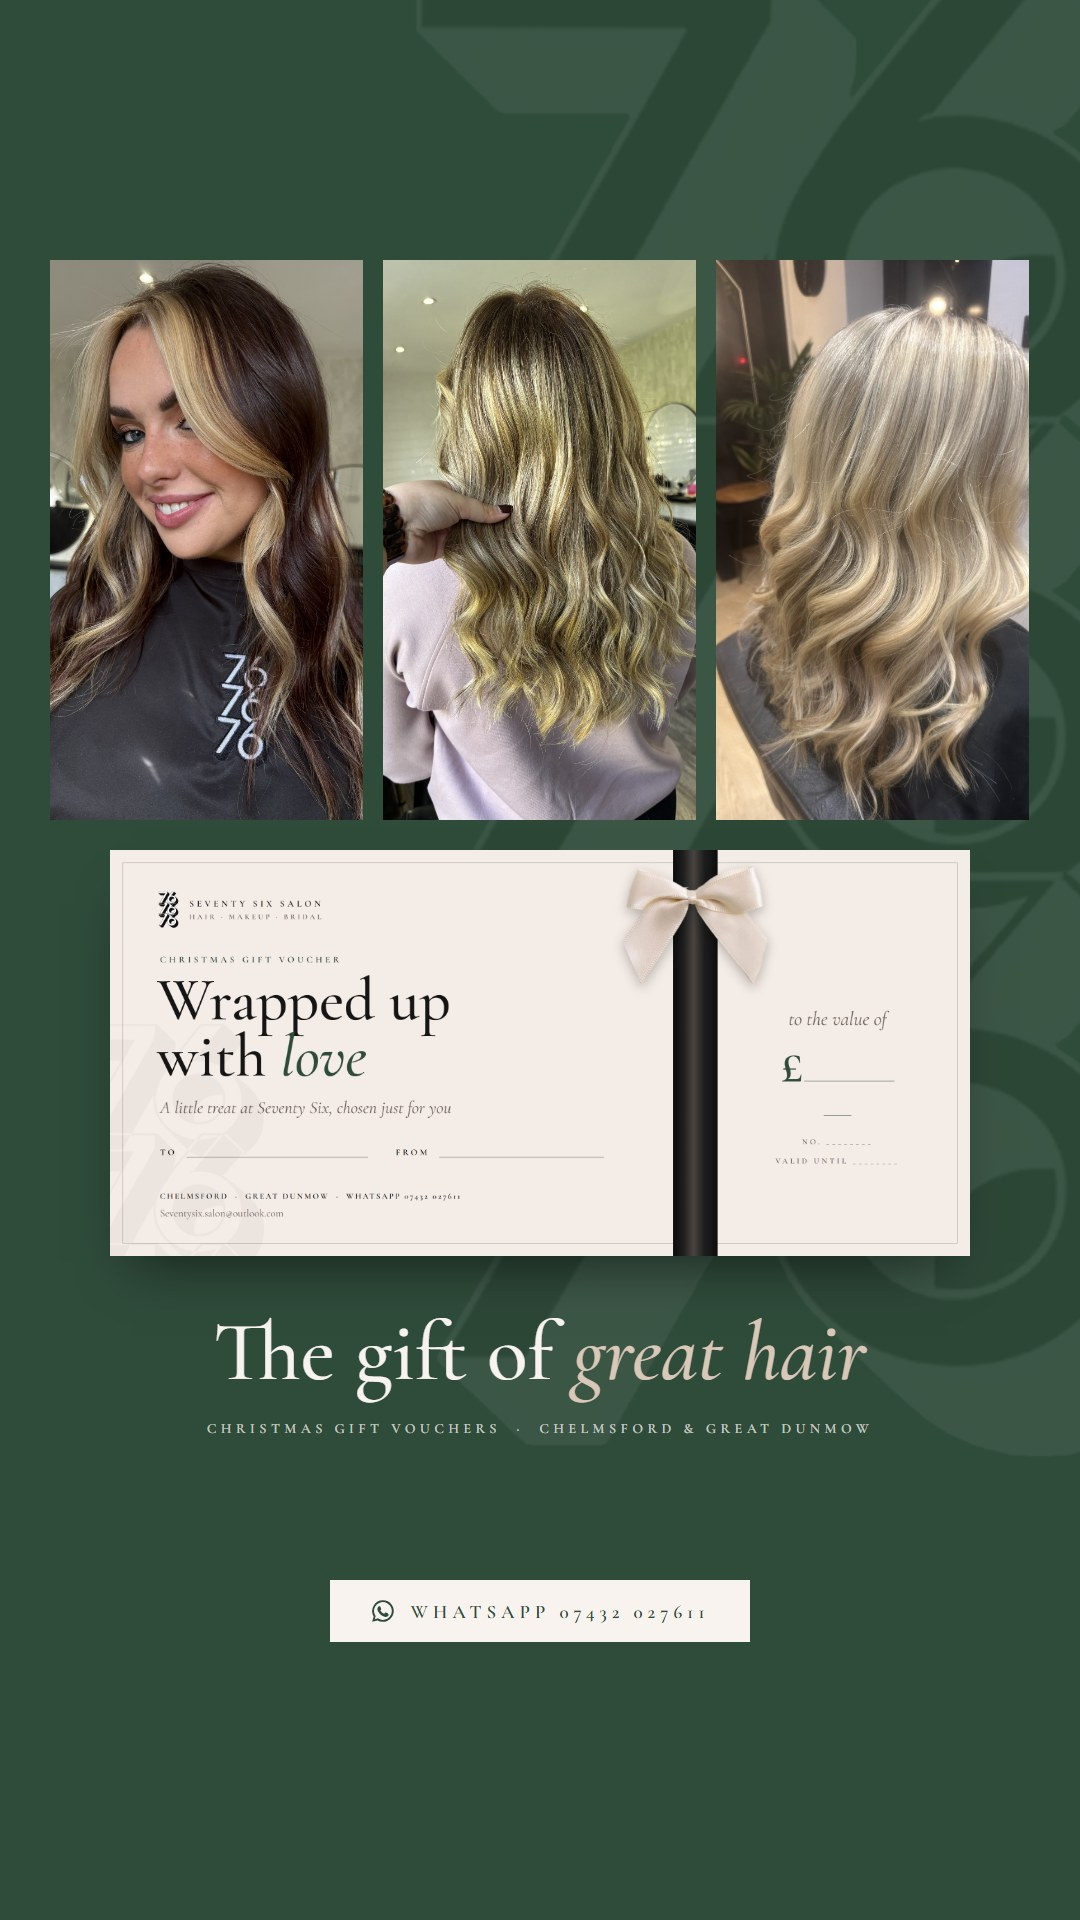
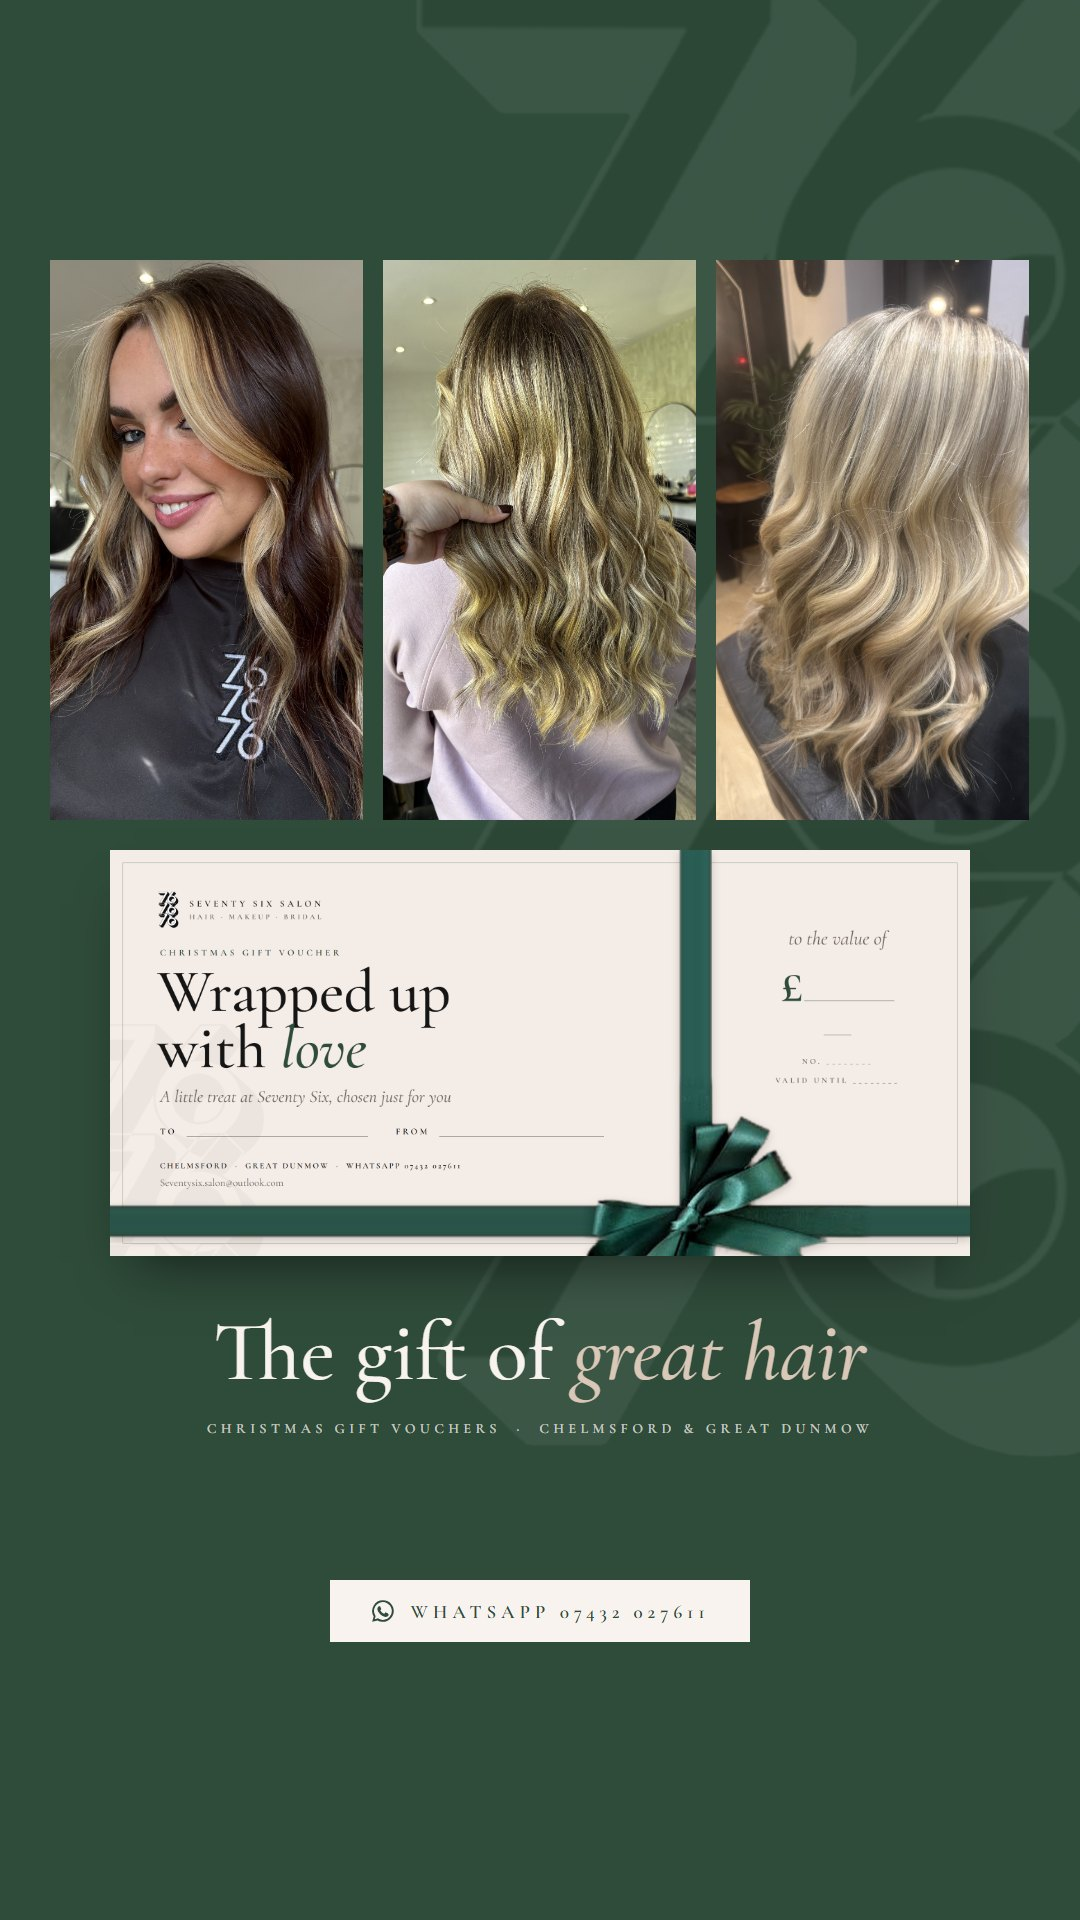
76 planner: voucher ad option 3 - green satin cross ribbon + bow on the voucher card

Changed region(s): [[0.0917, 0.4375, 0.9167, 0.6562]]

diff --git a/seventysix-planner/index.html b/seventysix-planner/index.html
@@ -356,7 +356,7 @@ Our 1:1 makeup lesson is just you and our makeup artist. Bring your own makeup b
     <div class="st-row mu-row">
       <figure><button><img src="img/voucher-ad/ad1-feed.jpg?v=2" alt="Gift voucher ad option 1, feed" loading="lazy"></button><figcaption><b>Option 1</b> · Give her great hair</figcaption></figure>
       <figure><button><img src="img/voucher-ad/ad2-feed.jpg" alt="Gift voucher ad option 2, feed" loading="lazy"></button><figcaption><b>Option 2</b> · Christmas, sorted</figcaption></figure>
-      <figure><button><img src="img/voucher-ad/ad3-feed.jpg?v=3" alt="Gift voucher ad option 3, feed" loading="lazy"></button><figcaption><b>Option 3</b> · The gift of great hair</figcaption></figure>
+      <figure><button><img src="img/voucher-ad/ad3-feed.jpg?v=4" alt="Gift voucher ad option 3, feed" loading="lazy"></button><figcaption><b>Option 3</b> · The gift of great hair</figcaption></figure>
       <figure><button><img src="img/voucher-ad/ad4-feed.jpg?v=2" alt="Gift voucher ad option 4, feed" loading="lazy"></button><figcaption><b>Option 4</b> · For the girl who has everything</figcaption></figure>
     </div>
     <div class="mu-cap"><b>Ad text</b>Christmas gift vouchers are here 🎁 Treat someone special to hair or makeup at Seventy Six, Chelmsford or Great Dunmow. Message us on WhatsApp to get yours 💚
